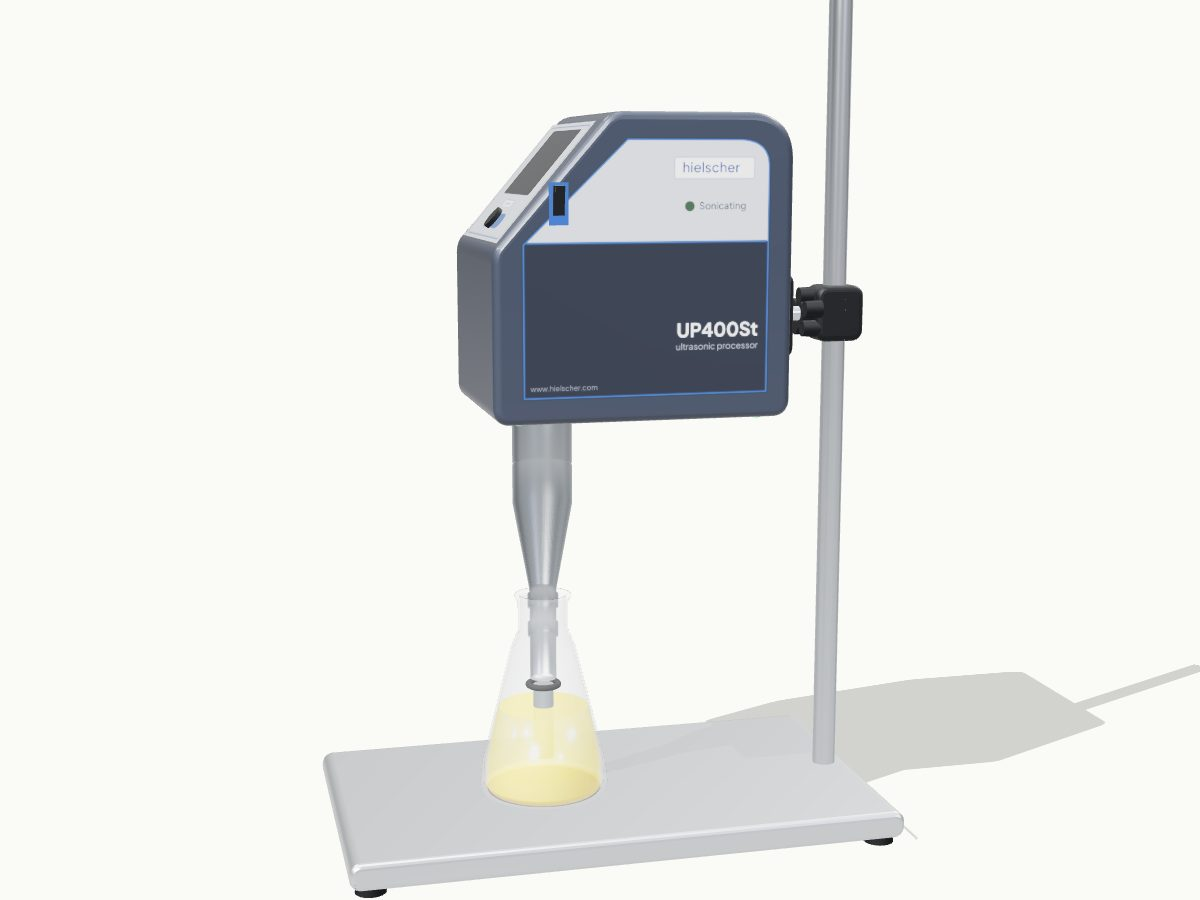
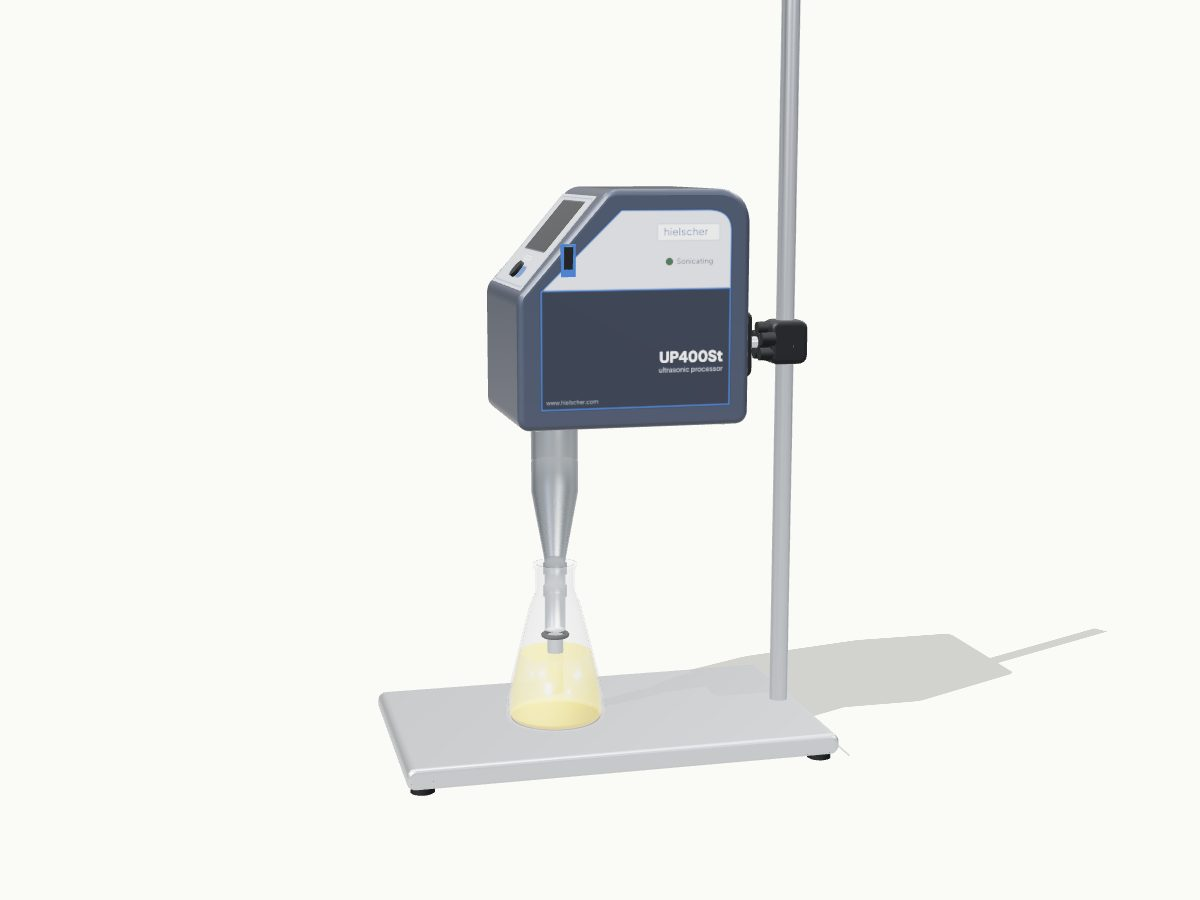
fix(web): hero framing margins and regenerated posters
Per-model frameMargin (UP400St 1.5, T25 1.5, i-Osmometer 1.32) so the stand and
base no longer touch the stage edges at 1440; posters regenerated only for those
three. The scroll cue now sits at the foot of the copy column, off the model base.

Changed region(s): [[0.2467, 0.0, 0.925, 1.0], [0.925, 0.7467, 0.9867, 0.7778], [0.9867, 0.7156, 1.0, 0.7467]]

diff --git a/apps/web/src/lib/showroom/models/hielscher-up400st.ts b/apps/web/src/lib/showroom/models/hielscher-up400st.ts
@@ -594,6 +594,7 @@ export function build(options: BuildOptions = {}): BuiltModel {
       lateral: { target: bodyAnchor, direction: new THREE.Vector3(0.15, 0.1, 1), distance: 650 },
     },
     frameTop: bodyY + H + 40,
+    frameMargin: 1.5, // el hero ancho (7fr) no deja la base ni el soporte pegados al borde
     setPower(on) {
       powered = on;
       if (on) screenOn = true;

diff --git a/apps/web/src/lib/showroom/models/ika-t25-digital.ts b/apps/web/src/lib/showroom/models/ika-t25-digital.ts
@@ -613,6 +613,7 @@ export function build(): BuiltModel {
       lateral:     { target: lateralTarget,      direction: new THREE.Vector3(1, 0.18, 0.12),   distance: 300 },
     },
     frameTop: housingBottom + HH + 50,
+    frameMargin: 1.5, // el hero ancho (7fr) no deja la base ni el soporte pegados al borde
     yaw: 0.52,
     setPower(on: boolean) {
       powered = on;

diff --git a/apps/web/src/lib/showroom/models/loeser-i-osmometer.ts b/apps/web/src/lib/showroom/models/loeser-i-osmometer.ts
@@ -823,6 +823,7 @@ export function build(): BuiltModel {
       },
     },
     frameTop: H + 14,
+    frameMargin: 1.32, // el hero ancho (7fr) no deja la base ni el soporte pegados al borde
     yaw: 0.38,
     setPower(on: boolean) {
       powered = on;
